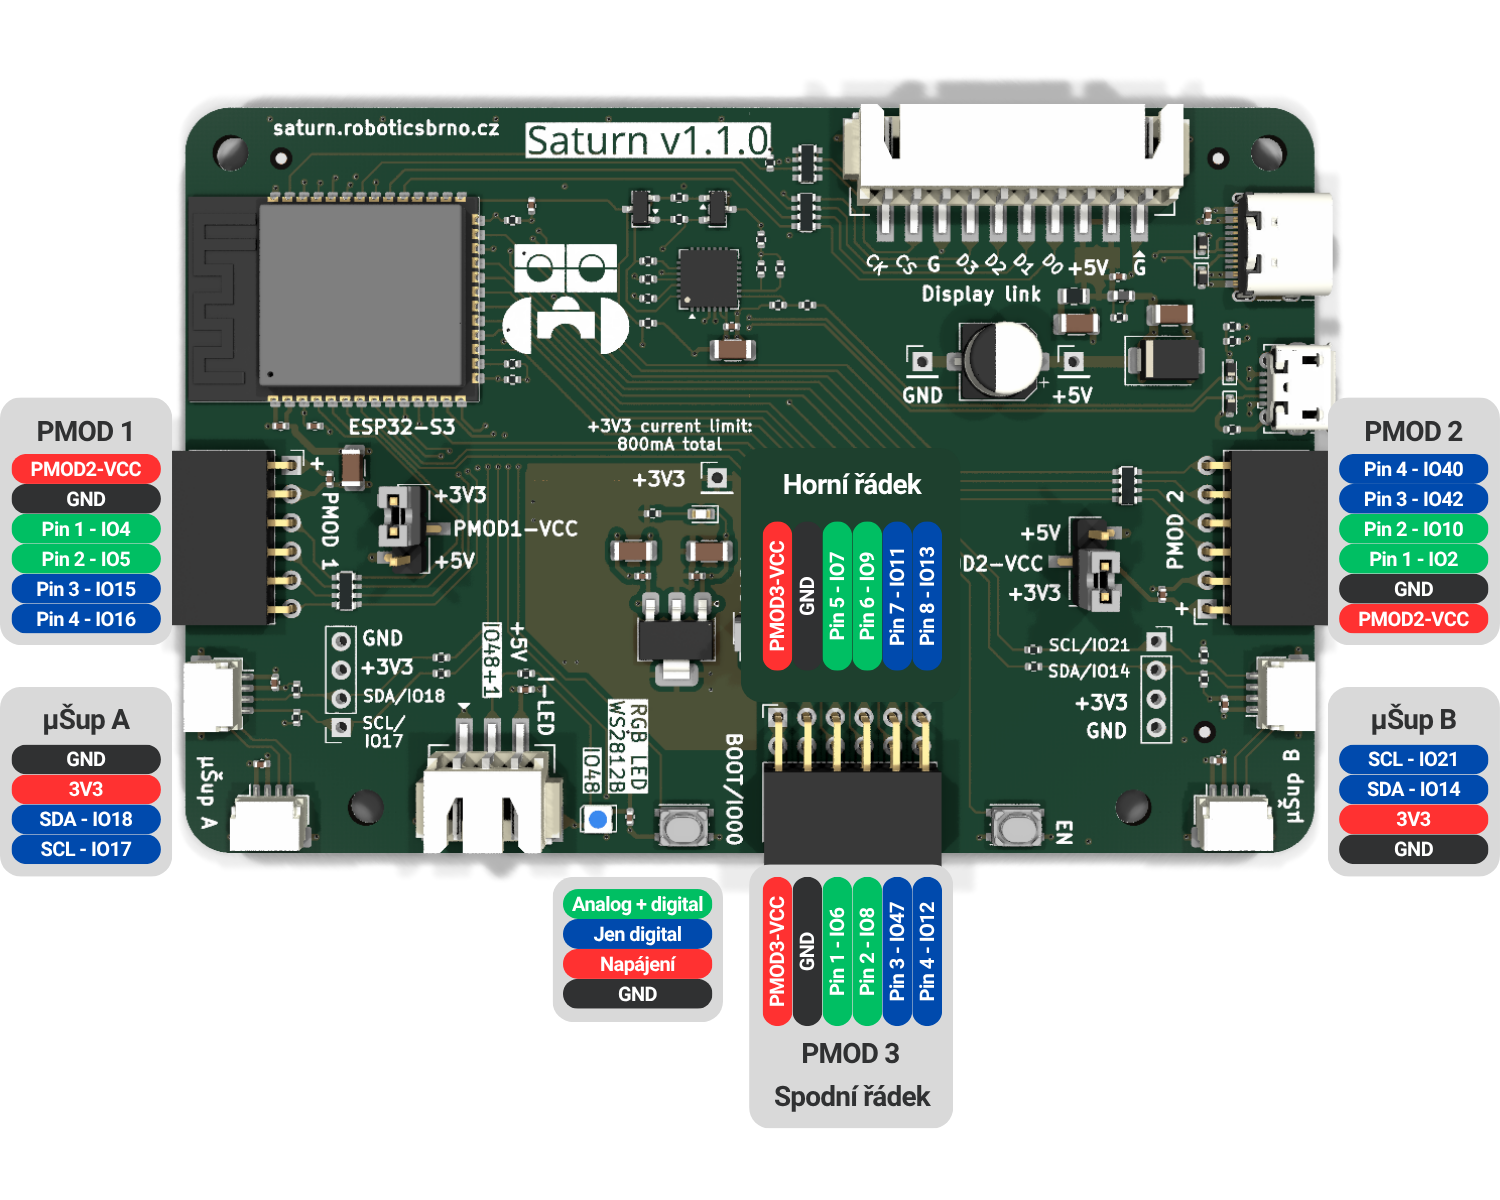
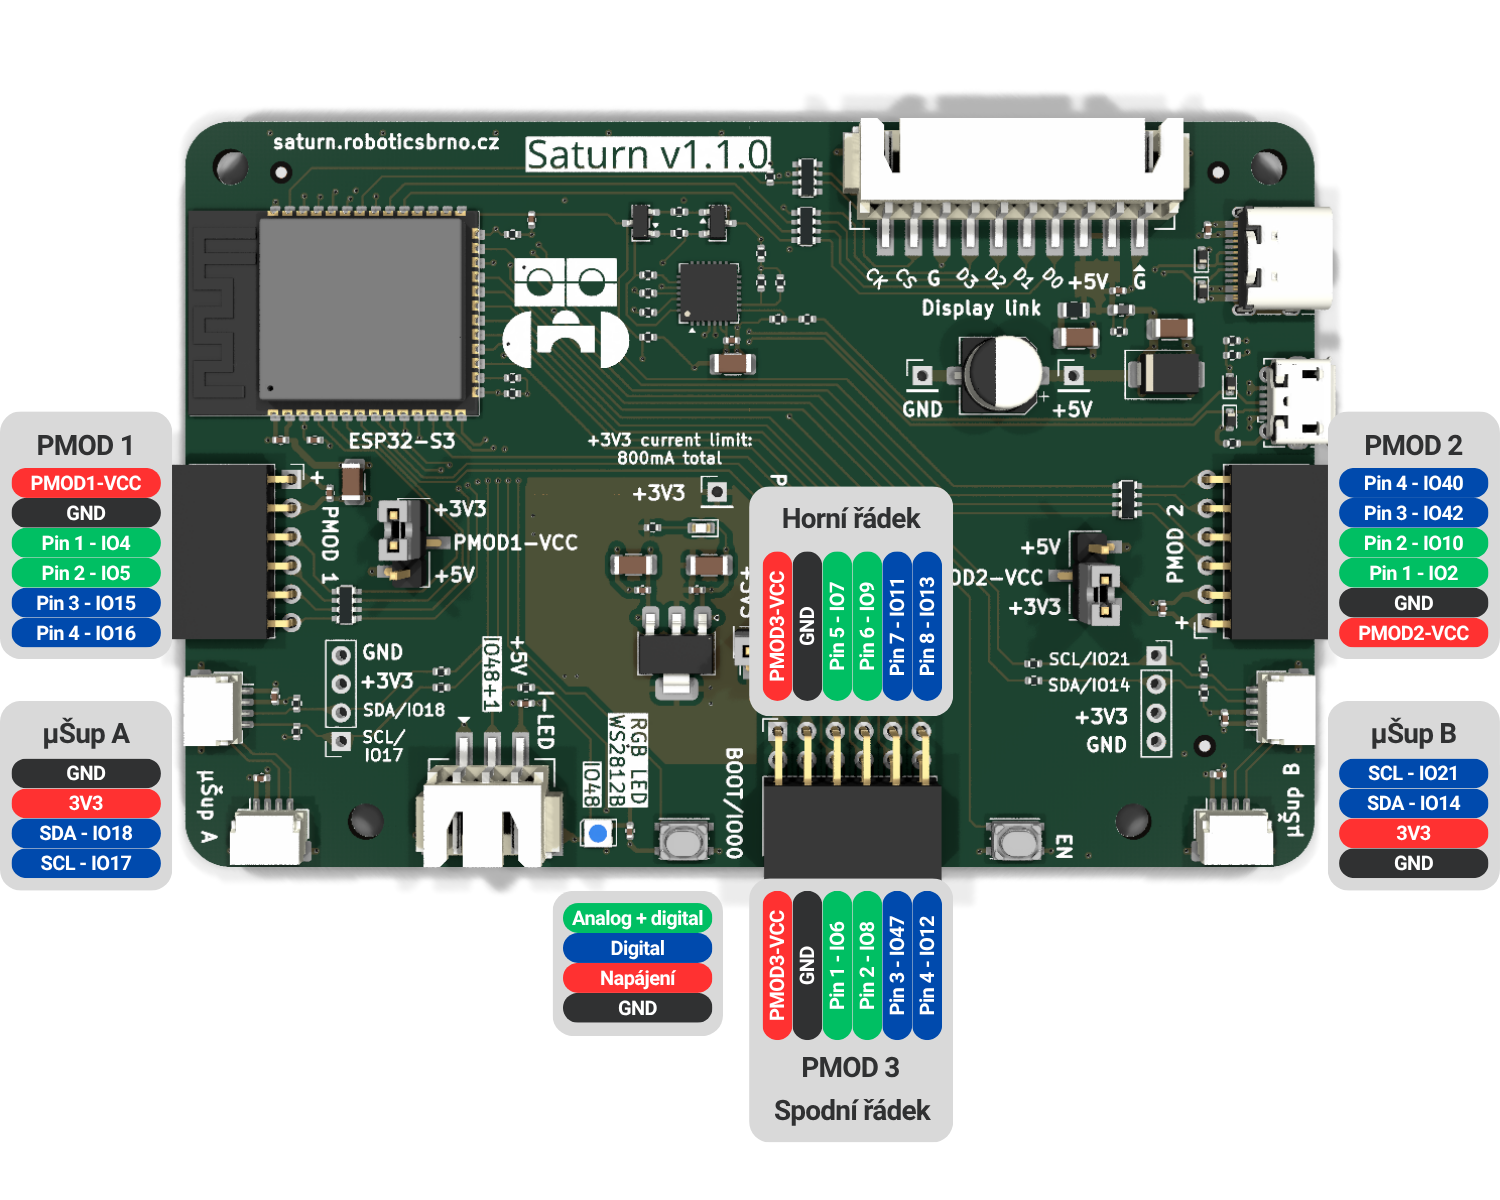
docs: reword bonus 2.1

Changed region(s): [[0.0, 0.0617, 1.0, 0.9558]]

diff --git a/docs/lekce/lekce2-1/index.md b/docs/lekce/lekce2-1/index.md
@@ -1,49 +1,60 @@
-# Lekce 2.1 - Exkurze do GPIO a Button knihovny
-Toto je nepovinná lekce vysvětlující fungování GPIO a Button knihovny. Nebudou prováděny žádné vedené lekce ani úkoly, lekce je zamýšlena pouze jako doplňující materiál pro ty, kteří se chtějí dozvědět více o fungování tlačítek a GPIO.
+# Bonus Lekce 2.1 – Rozhraní GPIO a knihovna Button
+
+!!! warning "Dobrovolná lekce" 
+
+    Tato lekce je volitelná a slouží jako doplňující materiál pro ty, kteří chtějí hlouběji porozumět principům fungování digitálních vstupů a výstupů a obsluze mechanických tlačítek. Neobsahuje žádné povinné úkoly ani praktická cvičení.
 
 ### Co je to GPIO?
-GPIO (General Purpose Input Output) je způsob, jak pracovat s piny, posílat a přijímat signály. Používá se například při ovládání a čtení z periferií, například z PMODu. Naše PMOD moduly GPIO využívají. Tlačítka GPIO používají také, ale práce s nimi s sebou nese unikátní problémy, které řeší knihovna button.
 
-Při většině ostatních použití nás ale problémy s `bounce` a `debounce` nemusí trápit.
+**GPIO (General Purpose Input/Output)** je univerzální rozhraní mikrokontroléru, které umožňuje konfigurovat jednotlivé piny pro příjem nebo odesílání digitálních signálů. GPIO se běžně využívá k řízení periferních zařízení a ke čtení dat z nich (například u PMOD modulů). 
 
-Toto je mimo jiné „low level" způsob, jak získávat input z tlačítek.
+Přestože rozhraní GPIO využívají i běžná tlačítka, jejich přímá obsluha přináší specifická úskalí spojená s mechanickými vlastnostmi spínačů. Tyto komplikace za nás na softwarové úrovni řeší knihovna `button`. U většiny ostatních periferních zařízení se však s těmito problémy (označovanými jako *bounce* a *debounce*) setkat nemusíme.
 
-Příklad s naším vestavěným BOOT tlačítkem na Saturnu (`SaturnPins.BootBtn`):
+Přímé použití knihovny `gpio` představuje nízkoúrovňový (*low-level*) způsob, jak získávat data z tlačítek.
+
+#### Příklad použití s vestavěným tlačítkem BOOT na desce Saturn (`SaturnPins.BootBtn`):
 
 ```ts
 import * as gpio from "gpio";
 import { SaturnPins } from "saturn";
 
-// nastaví pin 0 jako vstup
+// Nastavení pinu jako vstupního
 gpio.pinMode(SaturnPins.BootBtn, gpio.PinMode.INPUT);
 
-// událost, která proběhne při stisknutí tlačítka
+// Událost vyvolaná při sestupné hraně signálu (stisknutí tlačítka)
 gpio.on("falling", SaturnPins.BootBtn, () => { 
-    console.log("falling")
+    console.log("falling");
 });
 
-// událost, která proběhne při puštění tlačítka
+// Událost vyvolaná při vzestupné hraně signálu (uvolnění tlačítka)
 gpio.on("rising", SaturnPins.BootBtn, () => { 
-    console.log("rising")
+    console.log("rising");
 });
 
-// jednou za 100ms přečteme a vypíšeme hodnotu pinu (hodnota je digitální, tedy je buď 1, nebo 0)
-setInterval(()=>{
+// Pravidelné čtení a výpis digitální hodnoty pinu (0 nebo 1) každých 100 ms
+setInterval(() => {
     console.log(gpio.read(SaturnPins.BootBtn)); 
 }, 100);
 ```
 
-Jak jste si mohli všimnout, s knihovnou gpio se pracuje docela podobně jako s knihovnou button. Knihovna button je totiž postavená na GPIO, ale má několik vylepšení, které se hodí při práci s tlačítky.
+Z kódu je patrné, že práce s knihovnou `gpio` je velmi podobná práci s knihovnou `button`. Knihovna `button` je totiž na rozhraní GPIO přímo postavena, doplňuje však další mechanismy, které usnadňují obsluhu tlačítek v reálných podmínkách. 
 
-Pokud už máte modul D-pad, můžeme si demonstrovat proč.
+Proč je tato vrstva navíc potřebná, si můžeme demonstrovat, pokud máte k dispozici modul DPad.
+
+---
 
 ### Tlačítka, bounce a debounce
-Vyzkoušíme si stejný příklad, ale s tlačítkem z D-padu. Změníme tedy nastavení z `SaturnPins.BootBtn` na PMOD pin, na kterém je připojený DPad. Může to být například `SaturnPins.Pmod1.Pin1`.
 
-Pokud vše proběhlo správně, měli byste v konzoli vidět „falling" a „rising" vícekrát pro jedno stisknutí tlačítka. Tomuto jevu se říká `bounce` (zákmit). 
+Vyzkoušejme si stejný příklad, ale tentokrát s tlačítkem na externím modulu DPad. V kódu změňte pin `SaturnPins.BootBtn` na pin, ke kterému je připojen DPad (například `SaturnPins.Pmod1.Pin1`).
 
-`Bounce` je způsoben konstrukcí tlačítka. Je totiž založeno na kovové pružině, která se při stisknutí tlačítka několikrát odrazí. Tím tlačítko několikrát sepne a rozepne obvod, což způsobí, že se v konzoli objeví více „falling" a „rising" událostí. Míra `bounce` je závislá na konstrukci tlačítka a jeho stáří. Tlačítko `boot` má konstrukci, která bounce minimalizuje, takže se nám v konzoli typicky objeví jen jedna „falling" a „rising" událost. Tlačítko z D-padu je k `bounce` mnohem náchylnější, takže se bez `debounce` neobejdeme.
+Při stisku tlačítka si v konzoli pravděpodobně všimnete, že se výpisy „falling“ a „rising“ objeví pro jedno stisknutí hned několikrát. Tento nežádoucí jev se nazývá **zákmit (bounce)**.
 
-Knihovna button má už vestavěný `debounce` a události `click` a `doubleClick`, proto ji používáme místo čistého `GPIO`.
+#### Proč k zákmitům dochází?
+Zákmit je způsoben fyzikální konstrukcí mechanického tlačítka. To uvnitř obsahuje kovové kontakty, které se při stisku vlivem pružnosti materiálu od sebe několikrát mikroskopicky odrazí, než se pevně spojí. Během tohoto velmi krátkého okamžiku (v řádu milisekund) se elektrický obvod opakovaně rozpojí a spojí, což mikrokontrolér zaznamená jako sérii rychlých stisknutí a uvolnění.
 
+Náchylnost k zákmitům se liší podle konstrukce a opotřebení tlačítka:
+*   **Vestavěné tlačítko BOOT** na desce Saturn má konstrukci, která zákmity minimalizuje. V konzoli proto obvykle uvidíte pouze jednu čistou událost „falling“ a „rising“.
+*   **Tlačítka na modulu DPad** jsou k zákmitům náchylnější a bez dodatečného ošetření se neobejdou.
 
+#### Jak pomáhá knihovna `button`?
+Knihovna `button` v sobě má implementované softwarové ošetření zákmitů, takzvaný **debounce** (odrušení). Ten krátké a rychlé změny stavu způsobené odrazy kontaktů odfiltruje a aplikaci předá až stabilní stav. Navíc nabízí podporu pro pokročilejší události, jako je kliknutí (`click`) nebo dvojklik (`doubleClick`). Z toho důvodu je pro běžný vývoj pohodlnější a bezpečnější používat knihovnu `button` namísto přímého přístupu přes rozhraní `gpio`.